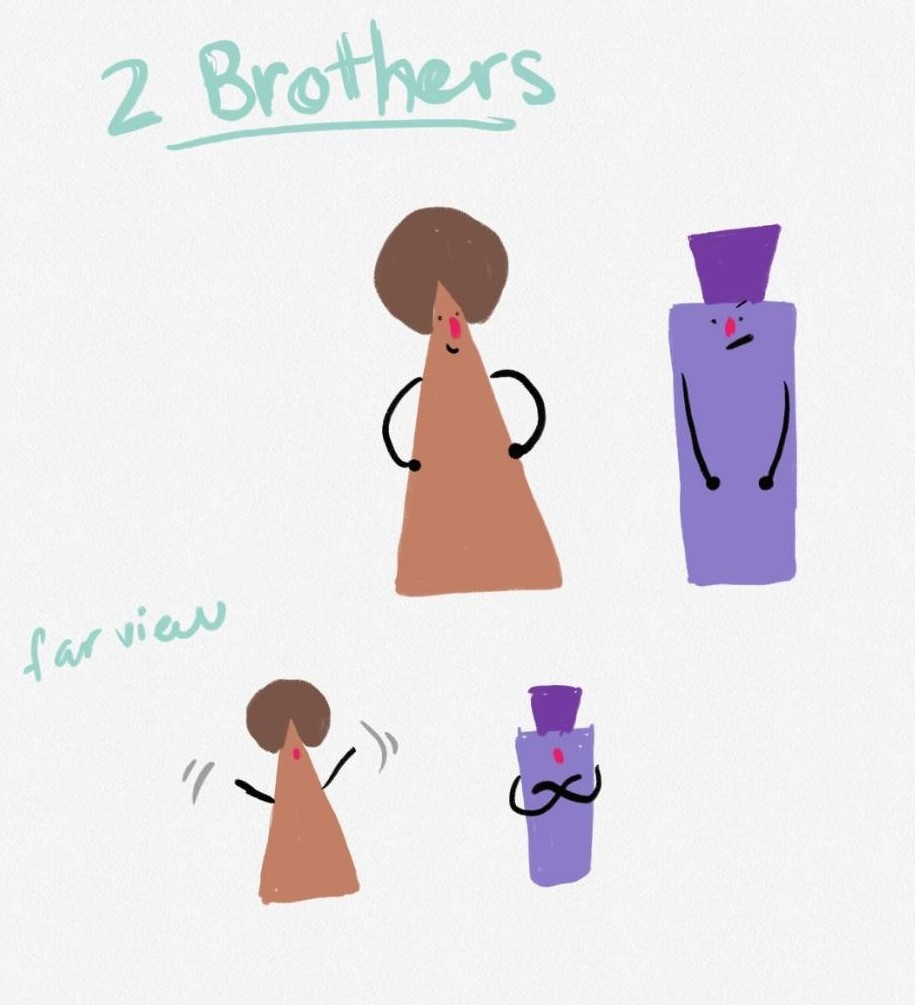
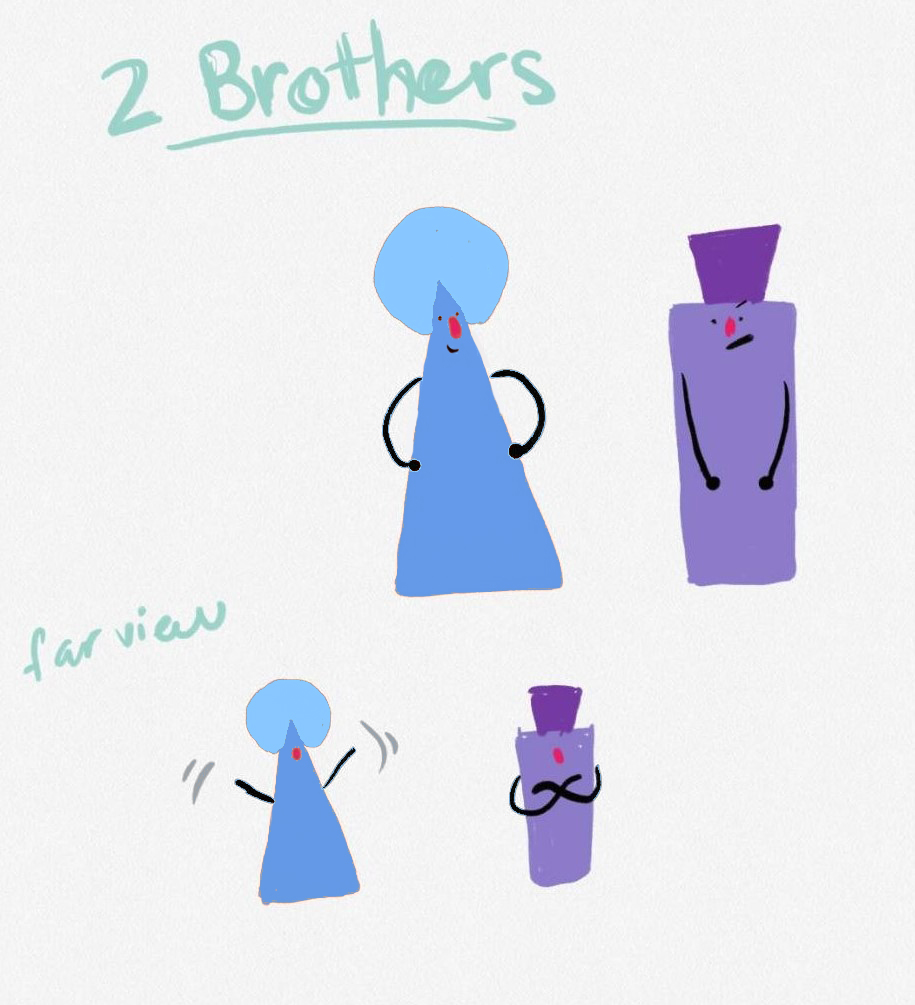
Added character.

Changed region(s): [[0.3978, 0.1851, 0.612, 0.6169], [0.2448, 0.6786, 0.3978, 0.9254]]

diff --git a/Assignment_3/project1_elements/src/ofApp.cpp b/Assignment_3/project1_elements/src/ofApp.cpp
@@ -1,0 +1,206 @@
+#include "ofApp.h"
+
+//--------------------------------------------------------------
+void ofApp::setup() {
+	ofSetFrameRate(60); //60 frames/sec
+
+}
+
+//--------------------------------------------------------------
+void ofApp::update() {
+
+}
+
+//--------------------------------------------------------------
+void ofApp::draw() {
+	//Getting current frame number:
+	int x;
+	x = (ofGetFrameNum() / 120) % 2; //currentFrameNumber/120 => every 2 second; % 4 => max of x value for every 4 things
+	//x = (ofGetFrameNum() / 1800) % 4; //currentFrameNumber/120 => every 30 second; % 4 => max of x value for every 4 things
+
+	cout << x << endl;
+
+	//Getting window width and height:
+	float width;
+	float height;
+	width = ofGetWidth();
+	height = ofGetHeight();
+	//cout << "Width window: " << width << endl;
+	//cout << "Height window: " << height << endl;
+
+	//Background Color:
+	ofColor colorOne(250, 250, 250);
+	ofColor colorTwo(180, 180, 180);
+
+	ofBackgroundGradient(colorOne, colorTwo, OF_GRADIENT_LINEAR);
+
+	//*****
+
+	//When an amount of second has passed (x), draw this shape:
+	if (x == 0) {
+		//Big Bird:***
+		//Body:
+		ofSetColor(242, 195, 127);
+		ofFill();
+		ofDrawTriangle(width / 4, height / 4, width / 4, height * 3 / 4, width*0.75, height * 3 / 4);
+		//Eye:
+		
+		ofSetColor(0, 0, 0);
+		ofFill();
+		ofDrawCircle(width / 4 + 30, height / 3+30, 5);
+		
+		//Beak:
+		ofSetColor(240, 134, 57);
+		ofFill();
+		ofDrawTriangle(width / 4, height / 3, width / 4 -60, height/3+50, width/4+20, height / 3 + 50);
+		
+
+		cout << "Thing 1 is drawn" << endl;
+
+	}
+
+	if (x == 1) {
+		//Dude 1:***
+		float x0h1, x1h1, x2h1, x3h1; //hand1
+		float y0h1, y1h1, y2h1, y3h1;
+		float x0cur, x1cur, x2cur, x3cur; //mouth
+		float y0cur, y1cur, y2cur, y3cur;
+
+		//Hair:
+		//ofSetColor(117,81,69);
+		ofSetColor(136, 198, 255);
+		ofFill();
+		ofDrawCircle(width / 2, height / 3, 100);
+		//Hands:
+		ofSetColor(0, 0, 0);
+		ofNoFill();
+
+		x1h1 = width / 2 - 100;
+		y1h1 = height / 2;
+		x2h1 = width / 2 + 100;
+		y2h1 = height / 2;
+
+		ofDrawLine(x1h1, y1h1, x2h1, y2h1);
+		//Body:
+		//ofSetColor(194, 127, 101);
+		ofSetColor(101, 154, 233);
+		ofFill();
+		ofDrawTriangle(width / 2, height / 3, width / 2 - 80, height * 3 / 4, width / 2 + 80, height * 3 / 4);
+
+		//Eyes:
+		ofSetColor(0, 0, 0);
+		ofFill();
+		ofDrawCircle(width / 2 - 10, height / 2.4, 3);
+		ofDrawCircle(width / 2 + 10, height / 2.4, 3);
+		//Nose:
+		ofSetColor(213, 41, 89);
+		ofFill();
+		ofRectangle myRect;
+		myRect.x = width / 2;
+		myRect.y = height / 2.3;
+		myRect.width = 10;
+		myRect.height = 20;
+		ofSetRectMode(OF_RECTMODE_CENTER);
+
+		ofDrawRectRounded(myRect, 10);
+		//Mouth:
+		ofSetColor(0, 0, 0);
+		ofFill();
+		x0cur = width / 2 - 5;
+		y0cur = height / 2.6;
+		x1cur = width / 2 - 10;
+		y1cur = height / 2.2;
+		x2cur = width / 2 + 10;
+		y2cur = height / 2.2;
+		x3cur = width / 2 + 5;
+		y3cur = height / 2.6;
+
+		ofDrawCurve(x0cur, y0cur, x1cur, y1cur, x2cur, y2cur, x3cur, y3cur);
+
+
+		cout << "Thing 2 is drawn" << endl;
+	}
+
+	if (x == 2) {
+		//Drawing Rectangle in the middle of window (thing 3):
+		ofSetColor(201, 255, 84);
+		ofFill();
+
+		ofRectangle rect;
+		rect.x = width / 2;
+		rect.y = height / 2;
+		rect.width = width / 2;
+		rect.height = width / 3;
+
+		ofSetRectMode(OF_RECTMODE_CENTER);
+		ofDrawRectangle(rect);
+		cout << "Thing 3 is drawn" << endl;
+	}
+
+	if (x == 3) {
+		//Drawing Elipse in the middle of window (thing 4):
+		ofSetColor(255, 158, 179);
+		ofFill();
+		ofDrawEllipse(width / 2, height / 2, width / 2, height / 2);
+		//ofDrawEllipse(float x, float y, float width, float height);
+		cout << "Thing 4 is drawn" << endl;
+	}
+
+
+
+}
+
+//--------------------------------------------------------------
+void ofApp::keyPressed(int key) {
+
+}
+
+//--------------------------------------------------------------
+void ofApp::keyReleased(int key) {
+
+}
+
+//--------------------------------------------------------------
+void ofApp::mouseMoved(int x, int y) {
+
+}
+
+//--------------------------------------------------------------
+void ofApp::mouseDragged(int x, int y, int button) {
+
+}
+
+//--------------------------------------------------------------
+void ofApp::mousePressed(int x, int y, int button) {
+
+}
+
+//--------------------------------------------------------------
+void ofApp::mouseReleased(int x, int y, int button) {
+
+}
+
+//--------------------------------------------------------------
+void ofApp::mouseEntered(int x, int y) {
+
+}
+
+//--------------------------------------------------------------
+void ofApp::mouseExited(int x, int y) {
+
+}
+
+//--------------------------------------------------------------
+void ofApp::windowResized(int w, int h) {
+
+}
+
+//--------------------------------------------------------------
+void ofApp::gotMessage(ofMessage msg) {
+
+}
+
+//--------------------------------------------------------------
+void ofApp::dragEvent(ofDragInfo dragInfo) {
+
+}

diff --git a/Assignment_3/project1_elements/src/ofApp.h b/Assignment_3/project1_elements/src/ofApp.h
@@ -1,0 +1,24 @@
+#pragma once
+
+#include "ofMain.h"
+
+class ofApp : public ofBaseApp{
+
+	public:
+		void setup();
+		void update();
+		void draw();
+
+		void keyPressed(int key);
+		void keyReleased(int key);
+		void mouseMoved(int x, int y );
+		void mouseDragged(int x, int y, int button);
+		void mousePressed(int x, int y, int button);
+		void mouseReleased(int x, int y, int button);
+		void mouseEntered(int x, int y);
+		void mouseExited(int x, int y);
+		void windowResized(int w, int h);
+		void dragEvent(ofDragInfo dragInfo);
+		void gotMessage(ofMessage msg);
+		
+};

diff --git a/Assignment_3/project1_elements/src/main.cpp b/Assignment_3/project1_elements/src/main.cpp
@@ -1,0 +1,13 @@
+#include "ofMain.h"
+#include "ofApp.h"
+
+//========================================================================
+int main( ){
+	ofSetupOpenGL(1024,768,OF_WINDOW);			// <-------- setup the GL context
+
+	// this kicks off the running of my app
+	// can be OF_WINDOW or OF_FULLSCREEN
+	// pass in width and height too:
+	ofRunApp(new ofApp());
+
+}

diff --git a/Assignment_3/README.md b/Assignment_3/README.md
@@ -22,6 +22,14 @@ Designs:
 
 4 Elements presented on OF:  
     <img src="/Assignment_3/images/bigbird_2.png" alt="bird" width="40%"/>
+    <img src="/Assignment_3/images/brother1.png" alt="brother1" width="40%"/>  
+(Testing color variations):
+<img src="/Assignment_3/images/brother1colorful.png" alt="brother1ver1" width="30%"/>
+<img src="/Assignment_3/images/brother1.png" alt="brother1ver2" width="30%"/>
+<img src="/Assignment_3/images/brother1ver1.png" alt="brother1ver3" width="30%"/>
+
+
+    
 #### Project 2
 I want to create an abstract visualization of this [Flight Data API](https://rapidapi.com/Travelpayouts/api/flight-data) data (data source is temporary, may be changed). This project is my personal take on how often  international flight are made to the cities that I have spend my time at.  
 
